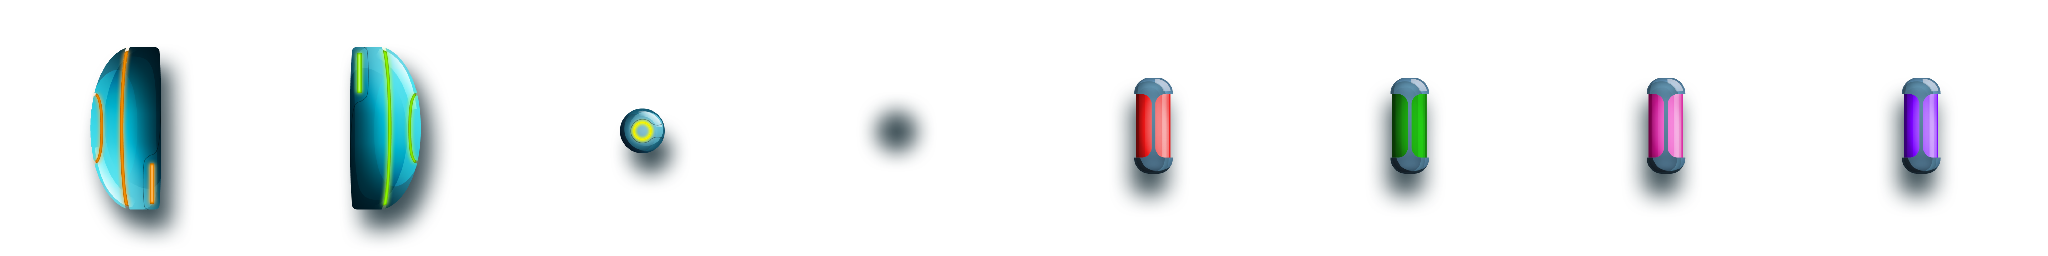
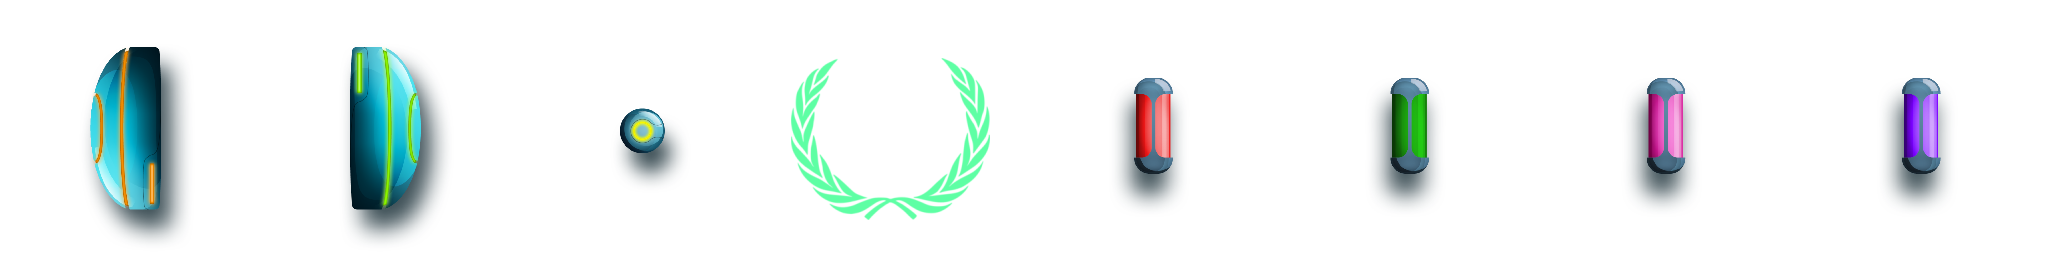
More Adjusts
- Beautifull Winner Display Screen
- Moar Random Things
TODO:
- Health System.
- Add items: Multi-Ball, Control Thighter, Health Recovery
- Add inside Inputs Systems Thighter Auto-Enable/Disabler.

Changed region(s): [[0.375, 0.25, 0.5, 0.8438]]

diff --git a/scripts/ball.js b/scripts/ball.js
@@ -7,7 +7,6 @@ var Ball = (function () {
         this.flickering = false;
         this.released = false;
         this.active = false;
-//        this.shadow = null;
         this.speed = 300;
         this.launchSide = 0; // -1 left / +1 Right
 
@@ -21,18 +20,11 @@ var Ball = (function () {
 
     Ball.prototype.create = function (game) {
 
-//        this.shadow = game.add.image( game.world.centerX + 16, game.world.centerY + 16, 'Objs',3);
-//        this.shadow.scale.setTo(0.5, 0.5);
-//        this.shadow.anchor.setTo(0.5, 0.5);
-
         this.sprite = game.add.sprite( game.world.centerX, game.world.centerY , 'Objs', 2);
         this.sprite.scale.setTo(0.5, 0.5);
         this.sprite.anchor.setTo(0.5, 0.5);
         game.physics.enable(this.sprite, Phaser.Physics.ARCADE);
         this.sprite.body.setSize(60, 60);
-
-//        this.sprite.animations.add('ball', [2], 1, false);
-//        this.sprite.animations.play('ball', 1, false);
 
         this.sprite.body.collideWorldBounds = true;
         this.sprite.body.allowGravity = false;
@@ -40,69 +32,27 @@ var Ball = (function () {
         this.sprite.body.bounce = new Phaser.Point(1, 1);
         this.sprite.body.linearDamping = 1;
 
-
-//        this.active = true;
-
     };
 
 
     Ball.prototype.hitRelease = function () {
         if (!this.released)
         {
-            this.sprite.body.velocity.x = this.speed * -(this.launchSide + (this.launchSide == 0));
-            this.sprite.body.velocity.y = -this.speed;
+            if (this.launchSide == 0)
+                this.launchSide = (Math.random() > 0.5 ? -1 : +1 );
+
+            this.sprite.body.velocity.x = this.speed  * -(this.launchSide + (this.launchSide == 0));
+            this.sprite.body.velocity.y = this.speed * (-1 + Math.random() * 2 );
             this.released = true;
             this.launchSide = 0;
         }
 
     };
 
-
-//    Ball.prototype.hitBounce = function ( ball, pad) {
-//        var diff = 0;
-////        console.log("Bounced");
-////        this.hitSparks.apply(this);
-////        this.hitSparks();
-////        ball.body.velocity.x *= -1;
-//
-//        if (ball.x < pad.x)
-//        {
-//            //If ball is in the left hand side on the racket
-//            diff = pad.x - ball.x;
-//            ball.body.velocity.x = (-10 * diff);
-//        }
-//        else if (ball.x > pad.x)
-//        {
-//            //If ball is in the right hand side on the racket
-//            diff = ball.x - pad.x;
-//            ball.body.velocity.x = (10 * diff);
-//        }
-//
-//        if (ball.y < pad.y)
-//        {
-//            //If ball is in the left hand side on the racket
-//            diff = pad.y - ball.y;
-//            ball.body.velocity.y = (-10 * diff);
-//        }
-//        else if (ball.y > pad.y)
-//        {
-//            //If ball is in the right hand side on the racket
-//            diff = ball.y - pad.y;
-//            ball.body.velocity.y = (10 * diff);
-//        }
-//        else
-//        {
-//            //The ball hit the center of the racket, let's add a little bit of a tragic accident(random) of his movement
-//            ball.body.velocity.y = 2 + Math.random() * 8;
-//        }
-//
-//    };
-
     Ball.prototype.setActive = function (value) {
         this.active = value;
         this.sprite.alive = value;
         this.sprite.visible = value;
-//        this.shadow.visible = value;
     };
 
     Ball.prototype.setBall = function (game) {
@@ -111,19 +61,18 @@ var Ball = (function () {
         {
             this.setActive(false);
             game.state.getCurrentState().ballsAmount -= 1;
+            this.launchSide = 0;
             return;
         }
 
         if (this.released)
         {
-            this.sprite.x = game.world.centerX;
-            this.sprite.y = game.world.centerY;
+//            this.sprite.x = game.world.centerX;
+//            this.sprite.y = game.world.centerY;
             this.sprite.body.velocity.x = 0;
             this.sprite.body.velocity.y = 0;
             this.released = false;
         }
-
-
 
     };
 
@@ -136,52 +85,21 @@ var Ball = (function () {
             || ( this.launchSide == -1 && BasicGame.leftInputCode == 1 ) || ( this.launchSide == 1 && BasicGame.rightInputCode == 1 ) )
             this.hitRelease();
 
-//        this.shadow.x = this.sprite.x + 8;
-//        this.shadow.y = this.sprite.y + 8;
-
-//        if (this.released !== true )
-//        {
-//            if (this.launchSide == -1)
-//            {
-//                this.sprite.x = game.width - 70;
-//                this.sprite.y = padRight.sprite.y;
-//            }
-//
-//            if (this.launchSide == +1)
-//            {
-//                this.sprite.x =  70;
-//                this.sprite.y = padLeft.sprite.y;
-//            }
-//        }
 
         if (this.sprite.x < 25)                     // If Ball escapes from left
         {
+            this.launchSide = -1;
             this.setBall(game);                     // Point for Right player
             BasicGame.rightScore += 1;
             BasicGame.crush.play();
-            this.launchSide = -1;
         }
         else if (this.sprite.x > game.width - 25)   // if Ball escapes from right
         {
+            this.launchSide = +1;
             this.setBall(game);                     // Point for Left Player
             BasicGame.leftScore += 1;
             BasicGame.crush.play();
-            this.launchSide = +1;
         }
-
-//        if (this.released !== true )
-//        {
-//            if (this.launchSide == 1)
-//            {
-//                this.sprite.x = game.state.getCurrentState().game.width -70;
-//                this.sprite.y = game.state.getCurrentState().padRight.sprite.y;
-//            }
-//            if (this.launchSide == -1)
-//            {
-//                this.sprite.x =  70;
-//                this.sprite.y = game.state.getCurrentState().padLeft.sprite.y;
-//            }
-//        }
 
     };
 

diff --git a/scripts/Congratulations.js b/scripts/Congratulations.js
@@ -4,9 +4,8 @@ BasicGame.Congratulations = function (game) {
 	this.music = null;
     this.logo = null;
 	this.playButton = null;
+    this.WinnerText = null;
     this.gameMessageText = null;
-    this.gameMessageSecondLineText = null;
-    this.gameMessageInfoText = null;
 
 };
 
@@ -17,45 +16,55 @@ BasicGame.Congratulations.prototype = {
 		//	We've already preloaded our assets, so let's kick right into the Main Menu itself.
 		//	Here all we're doing is playing some mu
 		//
-		//     game.load.image('bg', 'assets/images/bg_prerendered.png');    game.load.image('bg', 'assets/images/bg_prerendered.png');    game.load.image('bg', 'assets/images/bg_prerendered.png');sic and adding a picture and button
 		//	Naturally I expect you to do something significantly better :)
-        this.background = this.add.sprite(0, 0, 'Back3');
+        this.background = this.add.image(0, 0, 'Back3');
 
 		//this.music = this.add.audio('titleMusic');
 		//this.music.play();
 
         //Add logo
-		this.logo = this.add.sprite(this.game.world.centerX, 140, 'logo');
-        this.logo.anchor.setTo(0.5, 0.5);
+		this.logo = this.add.image(this.game.world.centerX, this.game.world.centerY * 0.75,  'Objs', 3);
+        this.logo.scale.set(0.75);
+        this.logo.anchor.set(0.5);
 
-
-        //add text
+        //add Brief text
         this.gameMessageText = this.game.add.retroFont('kof97', 8, 8, Phaser.RetroFont.TEXT_SET1);
-        var i = this.game.add.image(this.game.world.centerX, this.game.world.centerY *.75, this.gameMessageText);
+        this.gameMessageText.text =  " " + 'CONGLATURATIONS !!!' +  " - " + 'A great winner is You!'  ;
+        var i = this.game.add.image(this.game.world.centerX, this.game.world.centerY * 1.5, this.gameMessageText);
         i.tint = 0xFF00FF;
+        i.scale.setTo(2, 2);
+        i.anchor.set(0.5, 1);
 
-        if ( BasicGame.leftScore > 10 )
-            this.gameMessageText.text =  " " + 'CONGLATURATIONS !!!' +  " - " + 'A winner is Left Player!'  ;
-        if ( BasicGame.rightScore > 10 )
-            this.gameMessageText.text =  " " + 'CONGLATURATIONS !!!' +  " - " + 'A winner is Right Player!' ;
+        // Tell Who's the winner
+        ////////////////////////////////////////////////////////////////////////////
+        this.WinnerText = this.game.add.retroFont('kof97', 8, 8, Phaser.RetroFont.TEXT_SET1);
+        if ( BasicGame.leftScore > BasicGame.topScore )
+            this.WinnerText.text = 'LEFT PLAYER'  ;
+        if ( BasicGame.rightScore > BasicGame.topScore )
+            this.WinnerText.text = 'RIGHT PLAYER'  ;
+
+        var j = this.game.add.image(this.game.world.centerX, this.game.world.centerY * 0.75, this.WinnerText);
+        j.tint = 0xFF00FF;
+        j.anchor.set(0.5, 0.5);
+
+
+        this.game.add.tween(this.background).to( { tint: 0x00ffff }, 20, Phaser.Easing.Linear.None, true, 0, 0, false).to({tint: 0xffffff});
+        this.game.add.tween(this.logo).to( { tint: 0xFFFF00 }, 300, Phaser.Easing.Linear.None, true, 0, 10, false).to({tint: 0xFFFFFF});
+        this.game.add.tween(this.logo.scale).to( { y: 0.05, x: 0.1 }, 100, Phaser.Easing.Elastic.Out, true, 0, 1, false).to({y: 1.5, x: 1.5});
+        this.game.add.tween(j.scale).to( { y: 0.05, x: 0.1 }, 100, Phaser.Easing.Elastic.Out, true, 0, 1, false).to({y: 4, x: 4});
 
         BasicGame.leftScore = 0;
         BasicGame.rightScore = 0;
 
-        i.scale.setTo(2, 2);
-        i.anchor.set(0.5, 1);
-
-
         //add a click handler
         this.game.input.onDown.add(this.click, this);
-
-		//this.playButton = this.add.button(320, 416, 'playButton', this.startGame, this, 'buttonOver', 'buttonOut', 'buttonOver');
-
 	},
 
 	update: function () {
 
 		//	Do some nice funky main menu effect here
+//        this.logo.tint = Math.random() * 0xffffff;
+//        this.background.tint = Math.random() * 0xffffff;
 
 	},
 

diff --git a/scripts/Game.js b/scripts/Game.js
@@ -44,7 +44,7 @@ BasicGame.Game.prototype = {
 	create: function () {
 
 		//	Honestly, just about anything could go here. It's YOUR game after all. Eat your heart out!
-        this.background = this.add.sprite(0, 0, 'Back1');
+        this.background = this.add.image(0, 0, 'Back1');
 
         this.C1 = this.add.audio('Cling1');
         this.C2 = this.add.audio('Cling2');
@@ -76,8 +76,6 @@ BasicGame.Game.prototype = {
         this.sparx.setScale(1, 0.1, 1, 0.1, 3000, Phaser.Easing.Quintic.In);
         this.sparx.gravity = 0;
 
-
-
         this.balls = [3];
         for (var j = 0; j < 3; j++)
         {
@@ -92,11 +90,6 @@ BasicGame.Game.prototype = {
         this.ballsAmount = 3;
 
 
-
-//        this.ball = new Ball(this.game);
-//        this.ball.create(this.game);
-//        this.hitSparks(this.ball.sprite.x, this.ball.sprite.y);
-////        this.ball.hitRelease();
 
         this.padLeft = new LeftPad(this.game);
         switch (BasicGame.leftInputCode)
@@ -169,6 +162,12 @@ BasicGame.Game.prototype = {
                         ballRef.sprite.x =  70;
                         ballRef.sprite.y = this.padLeft.sprite.y;
                     }
+                    if (ballRef.launchSide == 0)
+                    {
+                        ballRef.sprite.x = this.world.centerX;
+                        ballRef.sprite.y = this.world.centerY;
+
+                    }
                 }
             }
         }
@@ -180,7 +179,8 @@ BasicGame.Game.prototype = {
         if ( this.input.keyboard.isDown(Phaser.Keyboard.ESC) )
             this.state.start('MainMenu');
 
-        if ( BasicGame.leftScore > 10 || BasicGame.rightScore > 10 )
+//        if ( BasicGame.leftScore > 9 || BasicGame.rightScore > 9 )
+        if ( BasicGame.leftScore > BasicGame.topScore  || BasicGame.rightScore > BasicGame.topScore  )
             this.state.start('Congratulations');
     },
 

diff --git a/scripts/MainMenu.js b/scripts/MainMenu.js
@@ -17,10 +17,10 @@ BasicGame.MainMenu.prototype = {
 		//	Here all we're doing is playing some music and adding a picture and button
 		//	Naturally I expect you to do something significantly better :)
 
-        this.background = this.add.sprite(0, 0, 'Back2');
+        this.background = this.add.image(0, 0, 'Back2');
 
-//        this.playButton = this.add.button(this.game.world.centerX - this.game.cache.getImage('playButton').width/2,
-//            this.game.world.centerY + this.game.cache.getImage('playButton').height, 'playButton', this.startGame, this, 2, 1, 0);
+        BasicGame.music = this.add.audio('titleMusic');
+        BasicGame.music.play();
 
         this.playButton = this.add.button( this.game.world.centerX, this.game.world.centerY *1.5, 'inputButtons', this.startGame, this, 11, 7, 3, 2);
         this.playButton.anchor.setTo(0.5,0.5);
@@ -43,7 +43,7 @@ BasicGame.MainMenu.prototype = {
         emitter.setScale(1.5, 0.4, 1.5, 0.4, 5000, Phaser.Easing.Elastic.InOut);
         emitter.start(false, 2000, 10);
 
-        this.Title = this.add.sprite(this.game.world.centerX, this.game.world.centerY *.85, 'titlepage');
+        this.Title = this.add.image(this.game.world.centerX, this.game.world.centerY *.85, 'titlepage');
         this.Title.anchor.setTo(0.5,0.5);
         this.Title.scale.setTo(1.5,1.5);
 	},

diff --git a/scripts/CPUInput.js b/scripts/CPUInput.js
@@ -8,6 +8,7 @@ var CPUInput = (function () {
         this.BallRef = null;
         this.PadCPU = null;
         this.Speed = 190;
+        this.Randomizer = 1;
 
         return this;
     }
@@ -26,6 +27,8 @@ var CPUInput = (function () {
 //        console.log("This is " + this.PadCPU.sprite.y );
 //        console.log("Ball is " + this.BallRef.sprite.Y );
 
+        this.Randomizer = 0.2 + Math.random() * 1.6;
+
         if ( !this.BallRef.active )
             for (var i = 0, total = game.state.getCurrentState().balls.length ; i < total; i++ )
                 if (game.state.getCurrentState().balls[i].active )
@@ -35,11 +38,11 @@ var CPUInput = (function () {
         //Control the computer's pad
         if((this.PadCPU.sprite.y - this.BallRef.sprite.y) < -15)
         {
-            this.PadCPU.sprite.body.velocity.y =this.Speed ;
+            this.PadCPU.sprite.body.velocity.y =this.Speed *  this.Randomizer;
         }
         else if(this.PadCPU.sprite.y - this.BallRef.sprite.y > 15)
         {
-            this.PadCPU.sprite.body.velocity.y = -this.Speed ;
+            this.PadCPU.sprite.body.velocity.y = -this.Speed *  this.Randomizer;
         }
         else
         {

diff --git a/scripts/Preloader.js b/scripts/Preloader.js
@@ -75,8 +75,6 @@ BasicGame.Preloader.prototype = {
 		{
             this.preloadBar.cropRect = new Phaser.Rectangle(0, 0, this.preloadBar.width , this.game.cache.getImage('Objs').height );
 
-            BasicGame.music = this.add.audio('titleMusic');
-            BasicGame.music.play();
 
             BasicGame.crush = this.add.audio('Crush');
 

diff --git a/scripts/Boot.js b/scripts/Boot.js
@@ -7,6 +7,7 @@ var BasicGame =
     rightScore: 0,
     rightInputCode: 0,      // 0, 1, 2, 3
 
+    topScore: 3,
 
     /* If the music in your game needs to play through-out a few State swaps, then you could reference it here */
     music: null,
